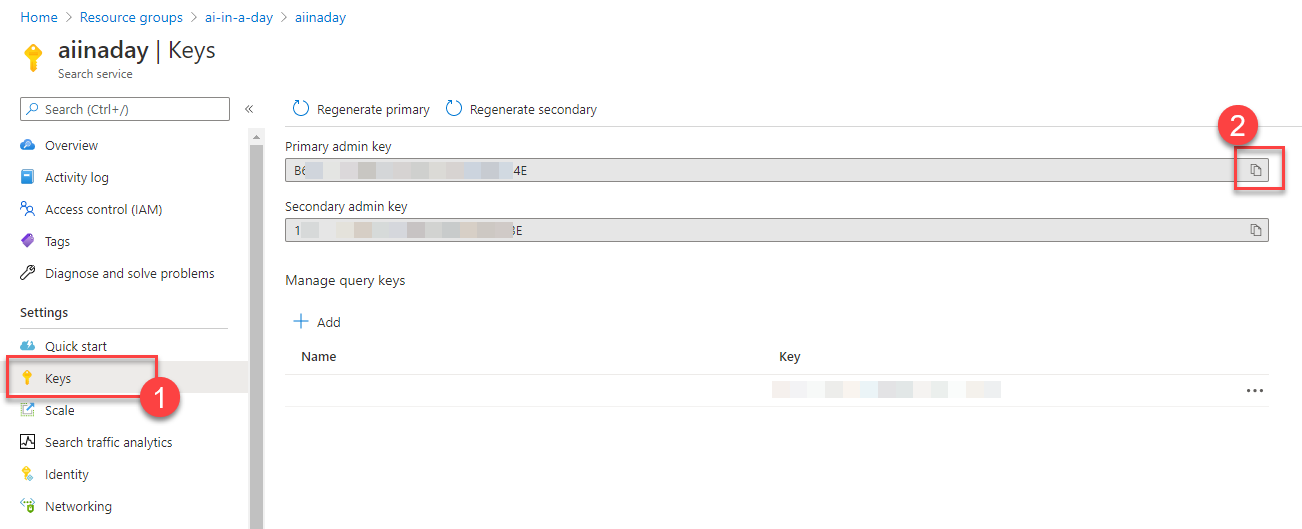
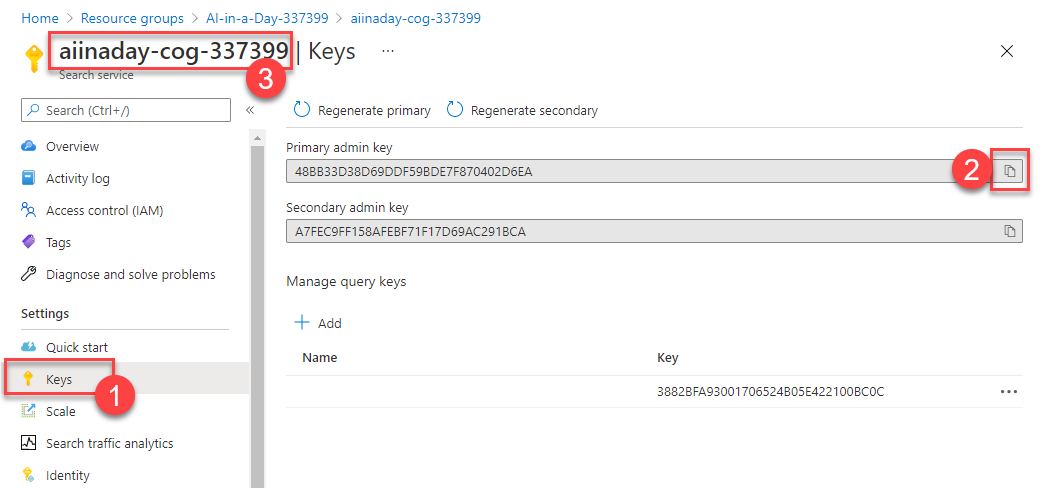
Clarifying Endpoint Change for Azure Cognitive Search

diff --git a/05-conversational-ai/README.md b/05-conversational-ai/README.md
@@ -69,13 +69,17 @@ First, we will start with a prepopulate Azure Cognitive Search knowledge base en
 
    ![Showing a sample set of RAW documents from Azure Cognitive Search. People, organizations, locations and keyphrases fields are highlighted.](media/azure-cognitive-search-explorer-result.png)
 
-9. Close the **Search Explorer**. Navigate to the **Keys (1)** panel. Copy the primary admin key by selecting the copy command **(2)**.
+9. Close the **Search Explorer**. Navigate to the **Keys (1)** panel. Copy the primary admin key by selecting the copy command **(2)**. Take note of the service name for your Azure Cognitive Search **(3)** for use in the next step.
 
    ![Azure Cognitive Search service page is open. Keys tab is shown. Primary admin key copy command is highlighted.](media/azure-cognitive-search-key.png)
 
 10. Now it's time to change the access keys used in our starter Bot to use our Azure Cognitive Search service. Go back to the Bot Framework Composer. Select **Greeting** trigger **(1)**. From the design, surface select the first **Set a property** activity **(2)**. You will see a **Value** field **(3)** on the right panel. We have to change the value with the primary admin key we have copied from the Azure Portal.
 
-   ![Bot Framework Composer is on screen. Greeting trigger is selected. Set a property activity is selected. The value field on the right panel is highlighted.](media/starter-bot-key-change.png)
+    ![Bot Framework Composer is on screen. Greeting trigger is selected. Set a property activity is selected. The value field on the right panel is highlighted.](media/starter-bot-key-change.png)
+
+11. Our next step is to replace the Azure Cognitive Search endpoints used in the application with the one that you just noted in Step 9. Select **GetRecentResearch** trigger **(1)**. From the design, surface select the first **Send an HTTP request** activity **(2)**. You will see a **Url** field **(3)** on the right panel. We have to change the value `aiinaday` with the Azure Cognitive Search endpoint you coped previously. Repeat the same for `ResearchLookup`, `AskForMore` and `OrganizationBasedSearch` triggers as well.
+
+    ![Bot Framework Composer is on screen. GetRecentResearch trigger is selected. Send an HTTP request activity is selected. The Url field on the right panel is highlighted.](media/starter-bot-endpoint-change-getrecentresearch.png)
 
 ## Task 4 - Running AI-in-a-Day Conversational Bot for the First Time
 
